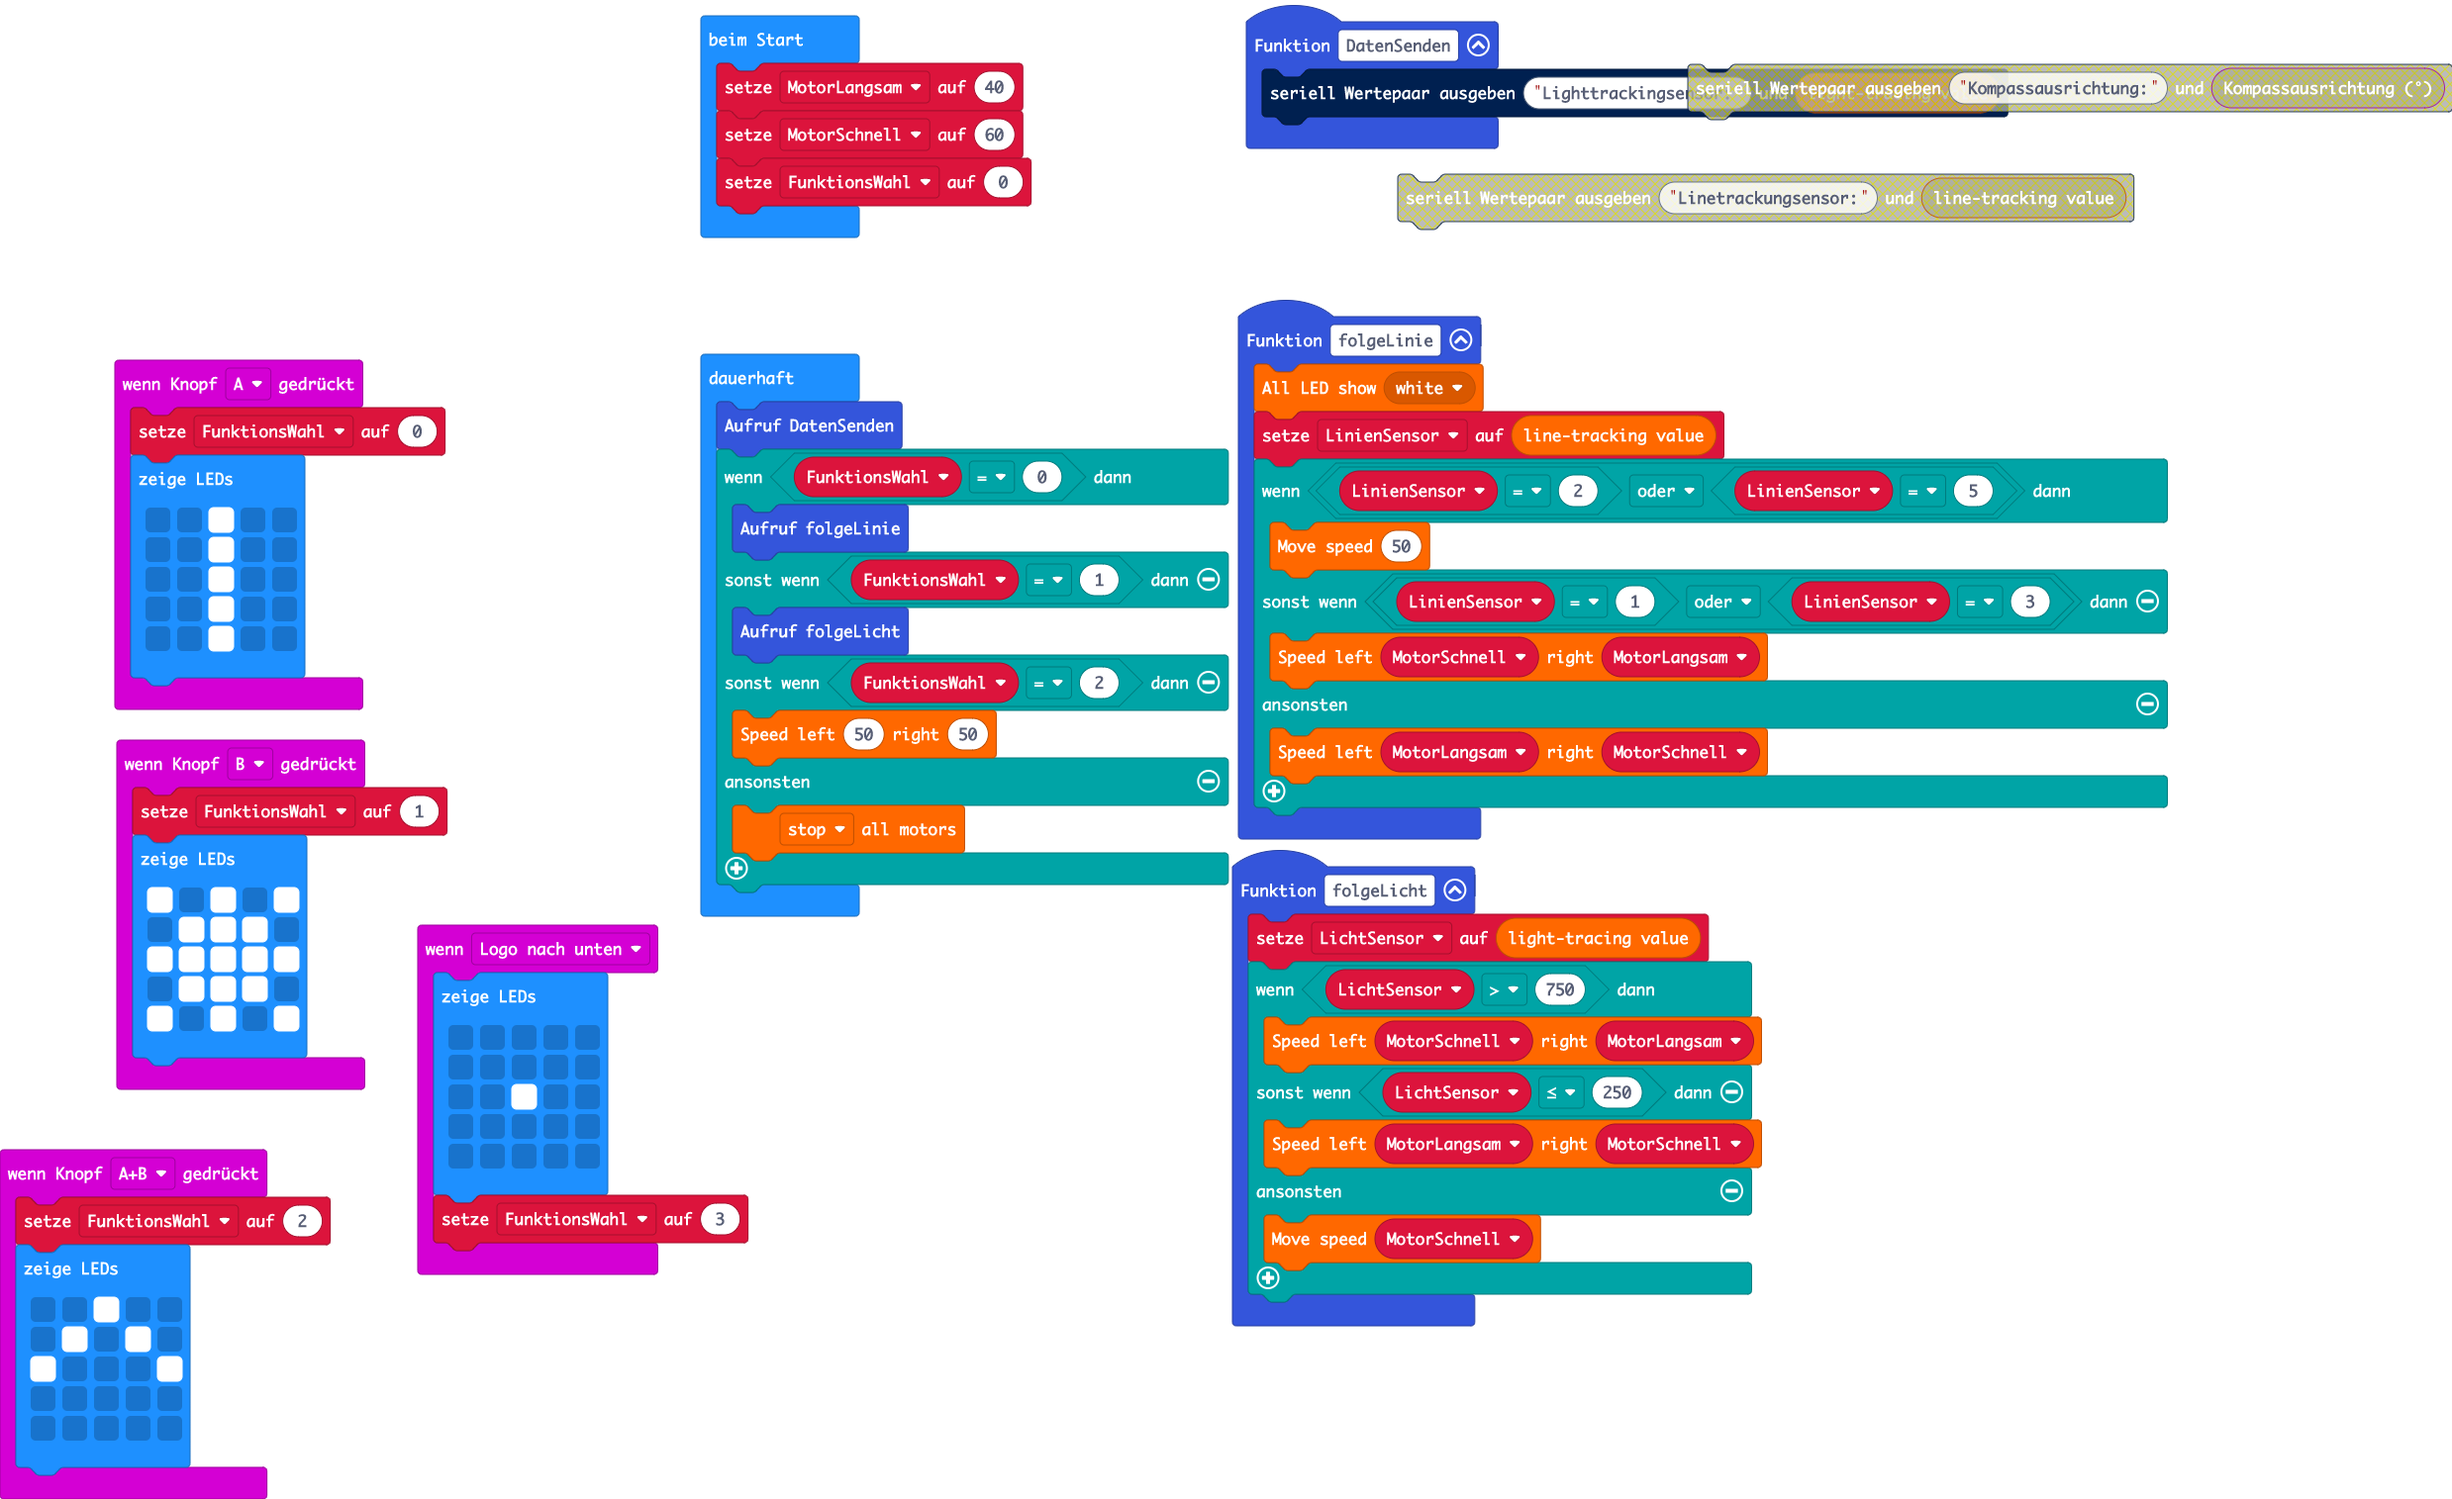
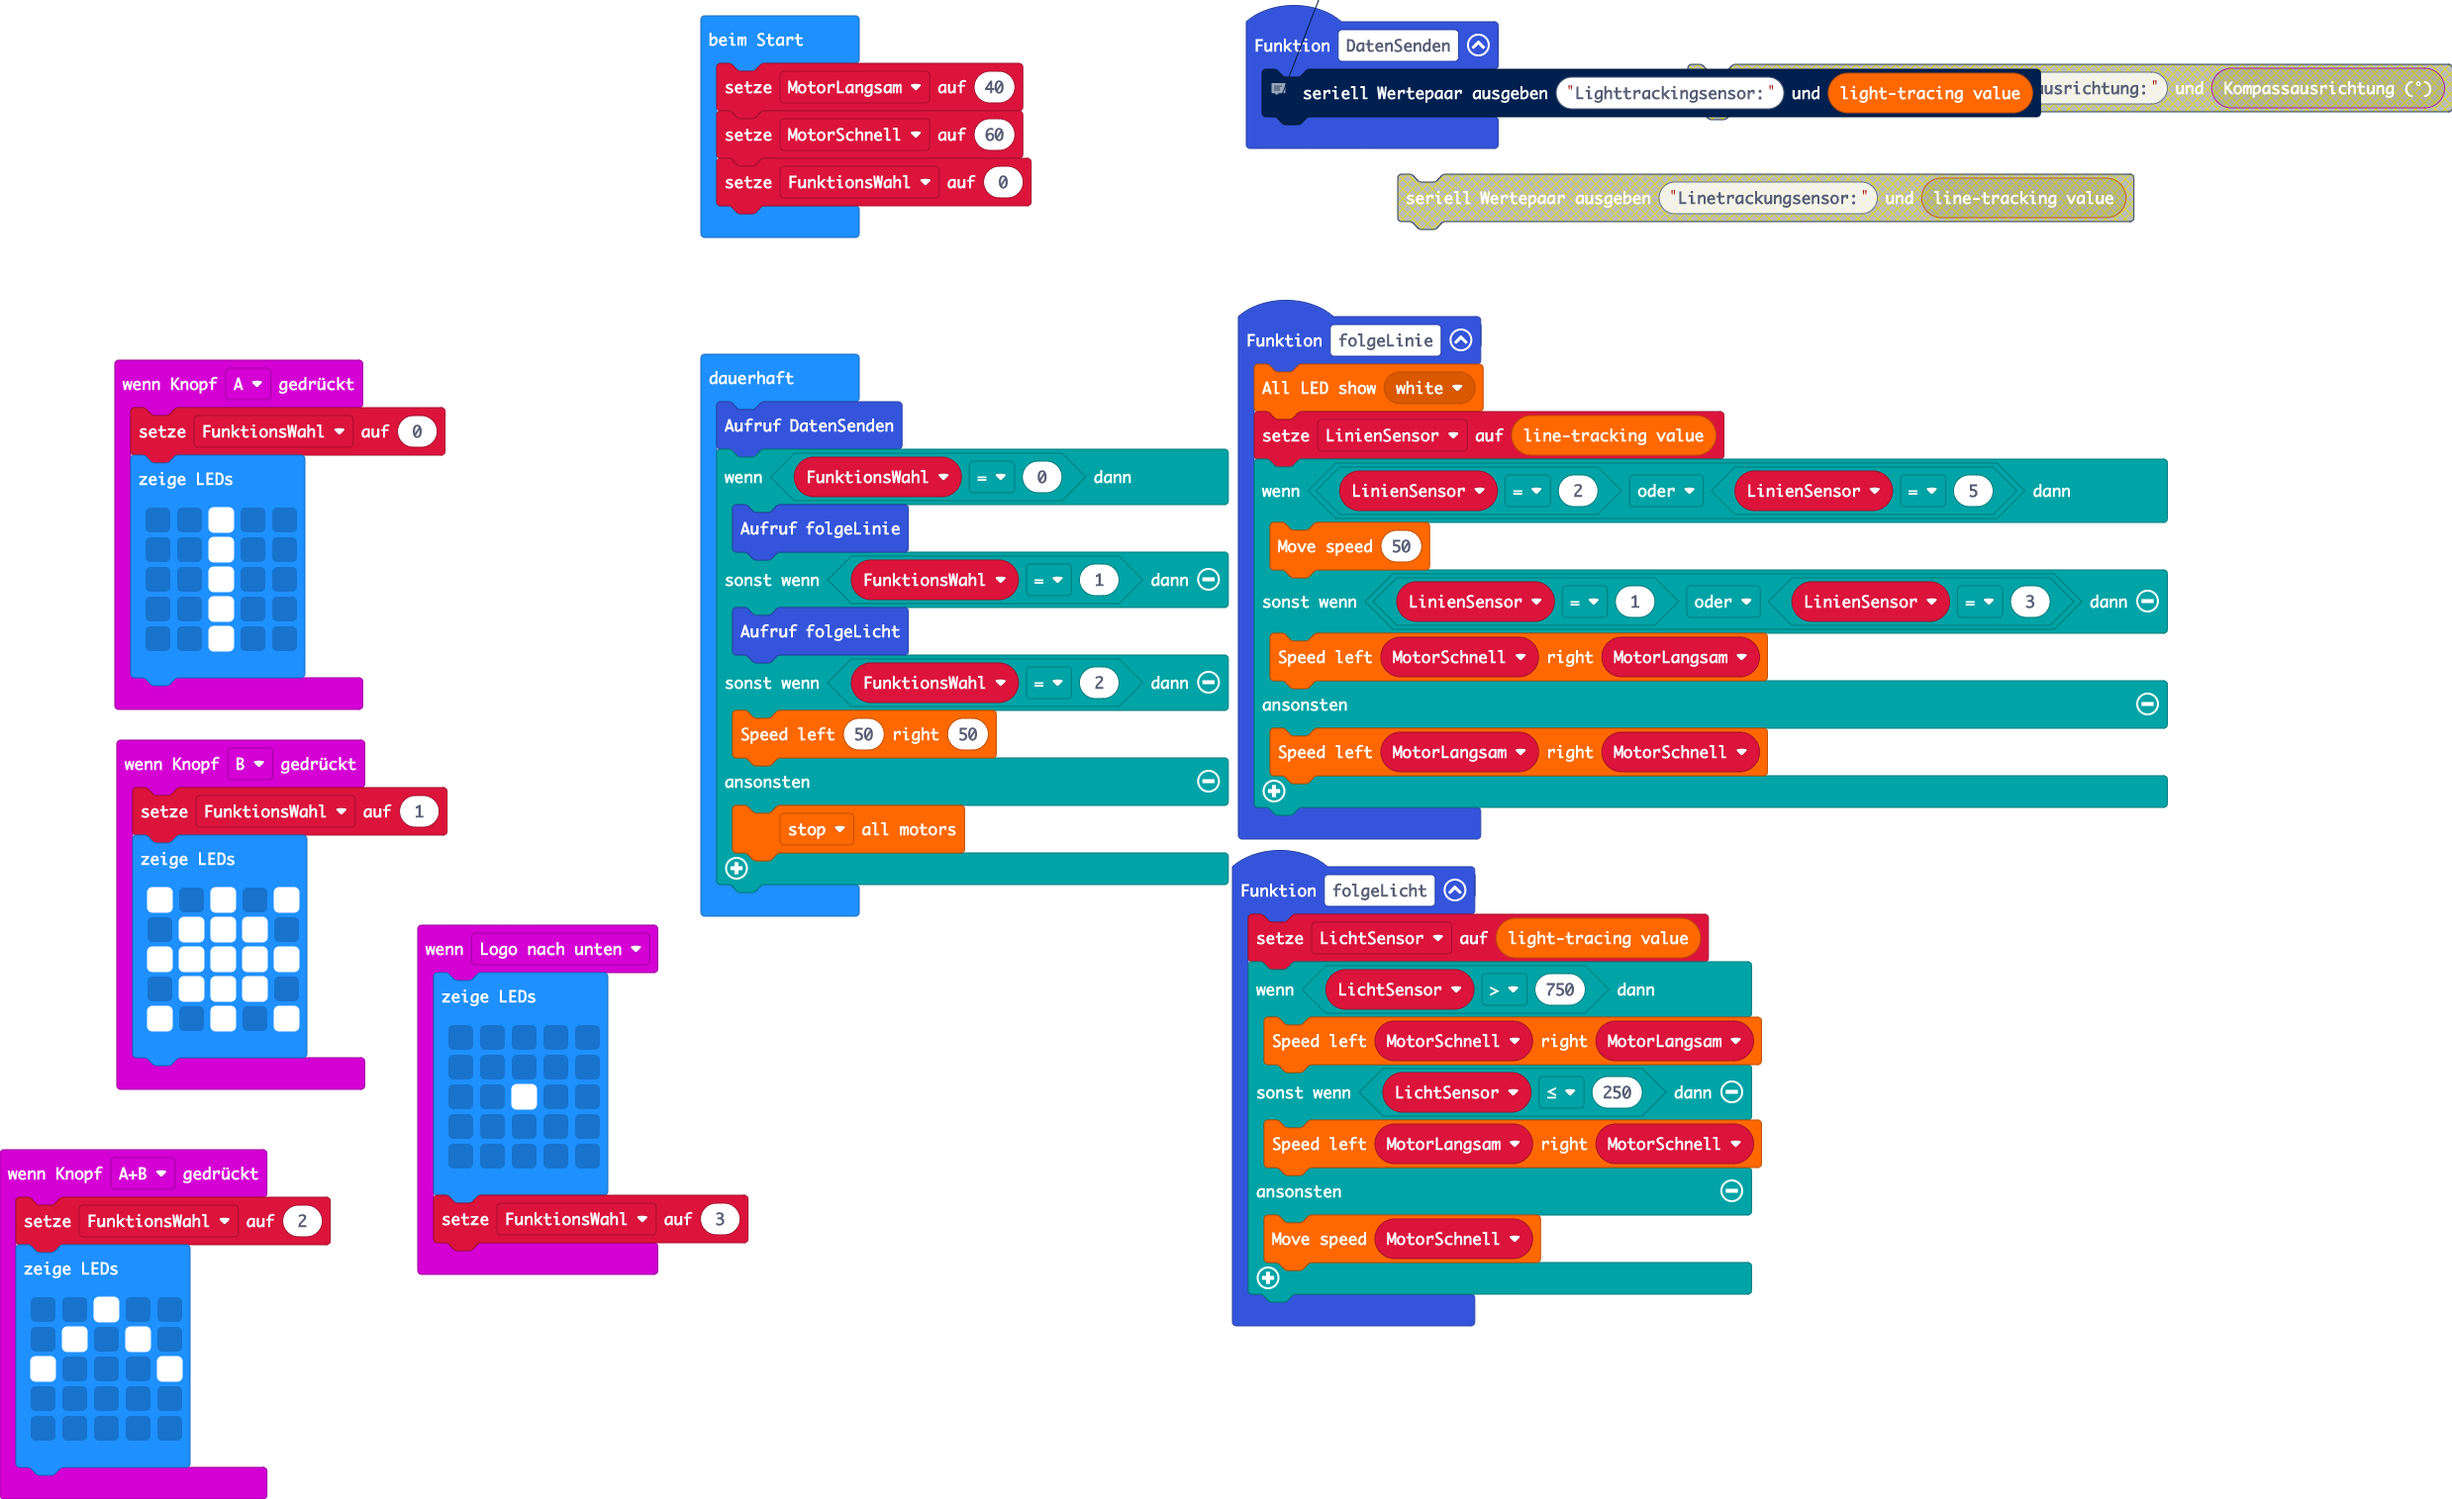
Aktualisiere main.blocks, main.ts

Changed region(s): [[0.5595, 0.031, 0.8393, 0.0931]]

diff --git a/main.ts b/main.ts
@@ -30,6 +30,8 @@ input.onButtonPressed(Button.A, function () {
         `)
 })
 function DatenSenden () {
+    // Damit kann man in der Konsole die Werte anschauen, wenn das USB KAbel am PC eingesteckt ist
+    // 
     serial.writeValue("Lighttrackingsensor:", Rover.LightTracing())
 }
 input.onGesture(Gesture.LogoDown, function () {
